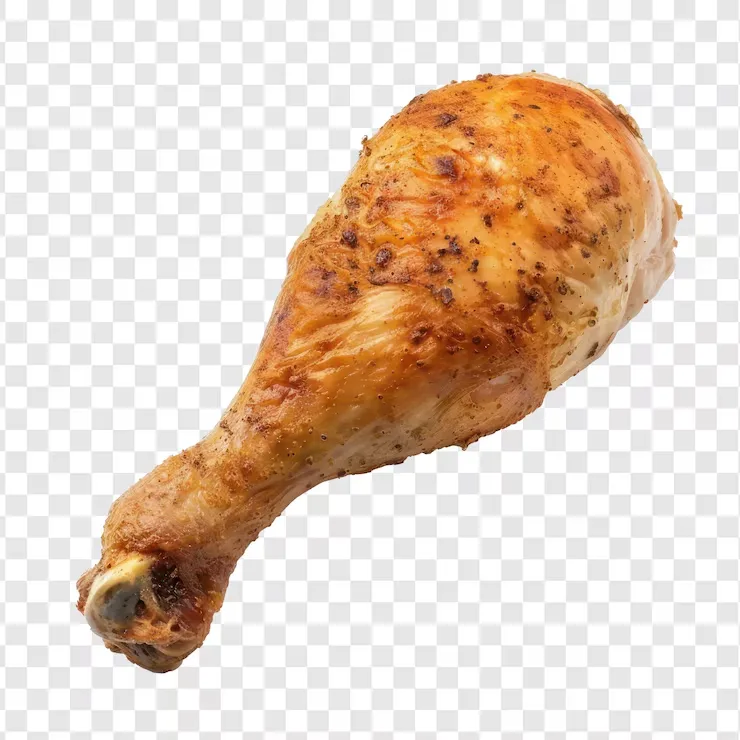
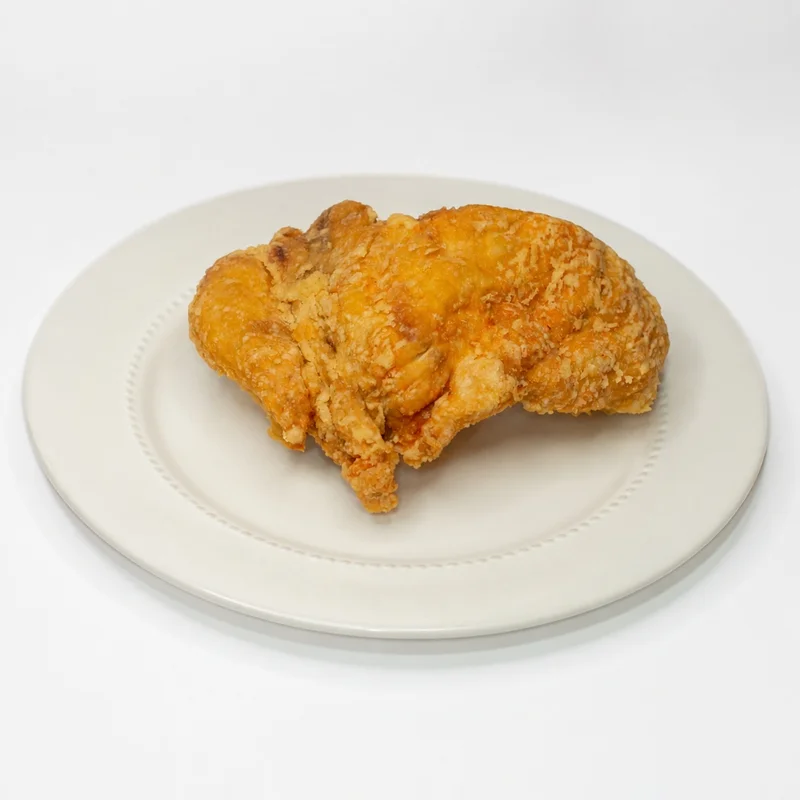
Actualizacion de complementos: imagenes WebP optimizadas de Presa de Pollo y Huevo, limpieza de complementos no utilizados

diff --git a/src/App.tsx b/src/App.tsx
@@ -29,10 +29,19 @@ const RESTAURANTE_NAME = "Don Broaster";
 const RESTAURANTE_SLOGAN = "Desde 1999 • Se prepara con cariño";
 const WHATSAPP_NUMBER = "51970590336"; 
 const TIKTOK_URL = "https://www.tiktok.com/@don.broaster";
+const FACEBOOK_URL = "https://www.facebook.com/donbroaster";
 const MAPS_LOCATION = "Pl. de la Composición 102, Surquillo";
 const MAPS_URL = "https://www.google.com/maps/place/Pl.+de+la+Composici%C3%B3n+102,+Surquillo+15047/@-12.1071,-77.0249,17z/data=!4m6!3m5!1s0x9105c86d2f2e6ccb:0x76723896f31be44!8m2!3d-12.1070296!4d-77.0243948!16s%2Fg%2F11rzcvq3yp!5m1!1e1?hl=es&entry=ttu&g_ep=EgoyMDI2MDcyNi4wIKXMDSoASAFQAw%3D%3D";
 const MARQUEE_TEXT = "🍗 DESDE 1999 SIRVIENDO SABOR • POLLO BROASTER, SALCHIPAPAS Y COMBOS CONTUNDENTES • ¡PIDE TU FAVORITO EN DON BROASTER! 🔥🍟 ";
 const BIRTHDAY_COPY = "🎉 ¡Registra tu cumpleaños y recibe una sorpresa bien crocante de Don Broaster! 🍗🍟🎁";
+
+// Iconos SVG para redes sociales
+
+const FacebookIcon = ({ className = "w-4 h-4" }: { className?: string }) => (
+  <svg className={className} viewBox="0 0 24 24" fill="currentColor">
+    <path d="M24 12.073c0-6.627-5.373-12-12-12s-12 5.373-12 12c0 5.99 4.388 10.954 10.125 11.854v-8.385H7.078v-3.47h3.047V9.43c0-3.007 1.792-4.669 4.533-4.669 1.312 0 2.686.235 2.686.235v2.953H15.83c-1.491 0-1.956.925-1.956 1.874v2.25h3.328l-.532 3.47h-2.796v8.385C19.612 23.027 24 18.062 24 12.073z"/>
+  </svg>
+);
 
 // Helper robusto para parsear precios (evita errores con S/.16.00 o S/. 20.00)
 const parsePrice = (priceStr?: string): number => {
@@ -91,7 +100,7 @@ export default function App() {
   // Modal options state for selected dish
   const [selectedCream, setSelectedCream] = useState<string>("Ají");
   const [selectedAdditionals, setSelectedAdditionals] = useState<string[]>([]);
-  const [includeChaufaGratis, setIncludeChaufaGratis] = useState<boolean>(true);
+  const [includeChaufaGratis, setIncludeChaufaGratis] = useState<boolean>(false);
   const [dishObservation, setDishObservation] = useState<string>("");
   const [modalQuantity, setModalQuantity] = useState<number>(1);
 
@@ -202,7 +211,7 @@ export default function App() {
     setSelectedDish(dish);
     setSelectedCream("Ají");
     setSelectedAdditionals([]);
-    setIncludeChaufaGratis(true);
+    setIncludeChaufaGratis(false);
     setDishObservation("");
     setModalQuantity(1);
   };
@@ -553,17 +562,28 @@ export default function App() {
               <Star className="w-5 h-5 fill-[#F2B33D] text-[#F2B33D]" />
             </button>
 
-            {/* TikTok Button */}
-            <a
-              href={TIKTOK_URL}
-              target="_blank"
-              rel="noreferrer"
-              className="bg-black text-white px-3 py-1.5 rounded-full hover:scale-105 transition shadow flex items-center gap-1.5 text-xs font-bold border border-white/20"
-              title="TikTok Don Broaster"
-            >
-              <TikTokIcon className="w-4 h-4 fill-white" />
-              <span>TikTok</span>
-            </a>
+            {/* Redes Sociales (TikTok & Facebook) */}
+            <div className="flex items-center gap-1.5">
+              <a
+                href={TIKTOK_URL}
+                target="_blank"
+                rel="noreferrer"
+                className="w-8 h-8 bg-black text-white rounded-full hover:scale-110 transition shadow flex items-center justify-center border border-white/20"
+                title="TikTok Don Broaster"
+              >
+                <TikTokIcon className="w-4 h-4 fill-white" />
+              </a>
+
+              <a
+                href={FACEBOOK_URL}
+                target="_blank"
+                rel="noreferrer"
+                className="w-8 h-8 bg-[#1877F2] text-white rounded-full hover:scale-110 transition shadow flex items-center justify-center"
+                title="Facebook Don Broaster"
+              >
+                <FacebookIcon className="w-4 h-4 fill-white" />
+              </a>
+            </div>
           </div>
         </div>
 
@@ -1149,25 +1169,61 @@ export default function App() {
                   />
                 </div>
 
-                {/* Botón GPS Google Maps */}
-                <div>
+                {/* Botón GPS Google Maps Mejorado */}
+                <div className="bg-blue-50/90 p-3.5 rounded-2xl border border-blue-200 space-y-2.5 shadow-sm">
+                  <div className="flex items-start gap-2 text-blue-950 text-xs">
+                    <MapPin className="w-4 h-4 text-blue-600 shrink-0 mt-0.5" />
+                    <div>
+                      <p className="font-bold text-[#271B1C]">📍 Enviar mi Ubicación Exacta por GPS</p>
+                      <p className="text-[11px] text-gray-600 leading-snug mt-0.5">
+                        Al dar clic abajo, se capturará tu ubicación exacta por Google Maps para que el repartidor llegue directo a tu puerta sin perderse.
+                      </p>
+                    </div>
+                  </div>
+
                   <button
                     type="button"
                     onClick={handleGetLocation}
                     disabled={isGettingLocation}
-                    className="w-full bg-blue-50 border border-blue-200 text-blue-700 font-bold py-2.5 px-3 rounded-xl flex items-center justify-center gap-2 hover:bg-blue-100 transition text-xs"
+                    className={`w-full font-bold py-3 px-4 rounded-xl flex items-center justify-center gap-2 transition text-xs shadow ${
+                      checkoutData.gpsLink 
+                        ? 'bg-emerald-600 hover:bg-emerald-700 text-white' 
+                        : 'bg-[#1877F2] hover:bg-[#1565c0] text-white active:scale-[0.98]'
+                    }`}
                   >
                     {isGettingLocation ? (
-                      <Loader2 className="w-4 h-4 animate-spin text-blue-600" />
+                      <>
+                        <Loader2 className="w-4 h-4 animate-spin text-white" />
+                        <span>Obteniendo coordenadas GPS exactas...</span>
+                      </>
+                    ) : checkoutData.gpsLink ? (
+                      <>
+                        <CheckCircle2 className="w-4 h-4 text-white" />
+                        <span>¡UBICACIÓN GPS CAPTURADA! (Clic para actualizar)</span>
+                      </>
                     ) : (
-                      <MapPin className="w-4 h-4 text-blue-600" />
+                      <>
+                        <MapPin className="w-4 h-4 text-white animate-bounce" />
+                        <span>🎯 Clic aquí para compartir mi ubicación GPS exacta</span>
+                      </>
                     )}
-                    <span>{isGettingLocation ? "Obteniendo GPS..." : "📍 Usar mi Ubicación GPS (Google Maps)"}</span>
                   </button>
+
                   {checkoutData.gpsLink && (
-                    <p className="text-[11px] text-emerald-600 font-semibold mt-1 flex items-center gap-1">
-                      <CheckCircle2 className="w-3.5 h-3.5" /> Ubicación GPS adjunta al pedido
-                    </p>
+                    <div className="bg-emerald-100/90 border border-emerald-300 text-emerald-900 rounded-xl p-2.5 text-[11px] font-medium flex items-center justify-between gap-2 shadow-sm">
+                      <span className="flex items-center gap-1.5 font-semibold">
+                        <CheckCircle2 className="w-4 h-4 text-emerald-600 shrink-0" />
+                        Ubicación GPS adjunta al pedido
+                      </span>
+                      <a 
+                        href={checkoutData.gpsLink} 
+                        target="_blank" 
+                        rel="noreferrer"
+                        className="text-blue-700 underline font-bold hover:text-blue-900 shrink-0"
+                      >
+                        Ver enlace GPS ↗
+                      </a>
+                    </div>
                   )}
                 </div>
 

diff --git a/src/data/menuData.ts b/src/data/menuData.ts
@@ -106,40 +106,10 @@ export const DEFAULT_MENU_DATA: Category[] = [
         nota: "Encuentro o ala"
       },
       {
-        nombre: "Porción de papa",
-        descripcion: "Porción generosa de papas fritas crujientes doradas al momento.",
-        precio: "S/.9.00",
-        imagen: "https://images.unsplash.com/photo-1573080496219-bb080dd4f877?auto=format&fit=crop&w=800&q=80"
-      },
-      {
-        nombre: "Tocino",
-        descripcion: "Porción de tocino crocante frito al momento.",
-        precio: "S/.4.00",
-        imagen: "/tocino.webp"
-      },
-      {
-        nombre: "Chorizo",
-        descripcion: "Porción adicional de chorizo parrillero dorado.",
-        precio: "S/.3.00",
-        imagen: "/chorizo.webp"
-      },
-      {
-        nombre: "Plátano",
-        descripcion: "Porción adicional de plátano frito doradito.",
-        precio: "S/.3.00",
-        imagen: "/platano.webp"
-      },
-      {
-        nombre: "Hot dog",
-        descripcion: "Porción adicional de frankfurter frito.",
-        precio: "S/.2.00",
-        imagen: "/hot-dog.webp"
-      },
-      {
         nombre: "Huevo",
         descripcion: "Unidad adicional de huevo frito con yema montada.",
         precio: "S/.2.00",
-        imagen: "https://images.unsplash.com/photo-1525351484163-7529414344d8?auto=format&fit=crop&w=800&q=80"
+        imagen: "/huevo.webp"
       }
     ]
   }
